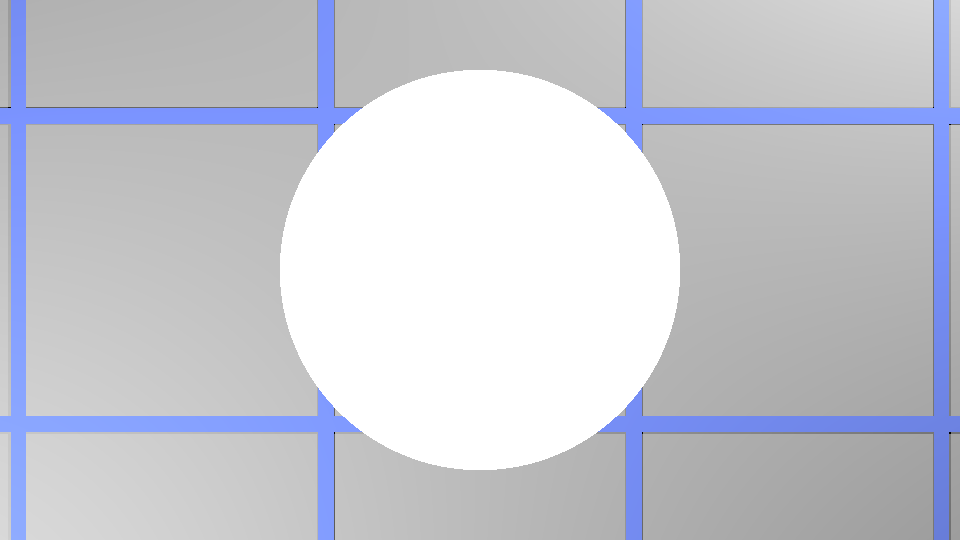
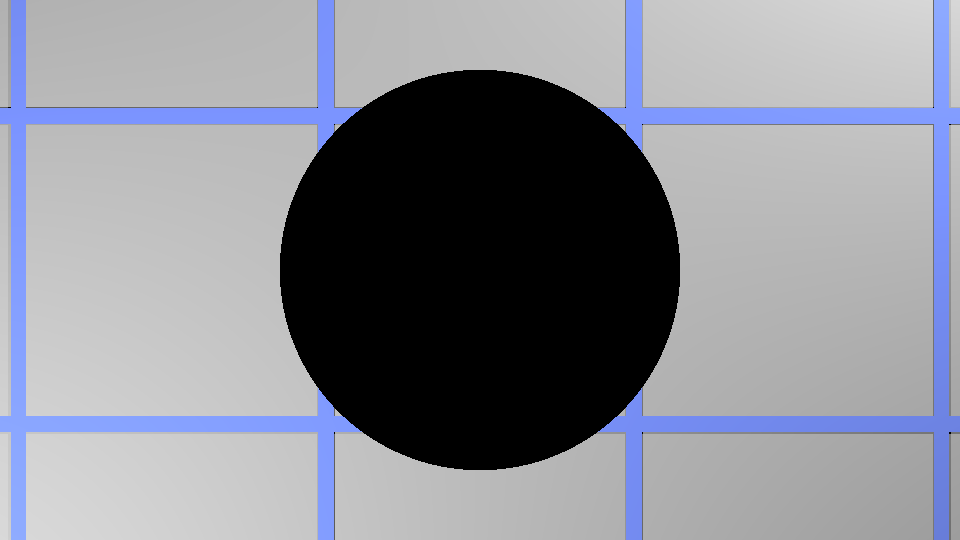
glass and glazed

Changed region(s): [[0.2812, 0.1185, 0.7188, 0.8889]]

diff --git a/CS4620/src/cs4620/ray2/shader/Glass.java b/CS4620/src/cs4620/ray2/shader/Glass.java
@@ -46,55 +46,43 @@ public class Glass extends Shader {
 	public void shade(Colord outIntensity, Scene scene, Ray ray, IntersectionRecord record, int depth) {
 
 
-		Vector3d incoming = new Vector3d();
 		Vector3d outgoing = new Vector3d();
 		outgoing.set(ray.origin).sub(record.location).normalize();
 
 		Colord color = new Colord();
-		Ray shadowRay = new Ray();
 		
 		outIntensity.setZero();
-		for(Light light : scene.getLights()) {
-			if(!isShadowed(scene, light, record, shadowRay)) {
-				incoming.set(light.getDirection(record.location)).normalize();
-				
-				double dotProd = record.normal.dot(incoming);
-				if (dotProd <= 0)
-					continue;
-				else {
-					
-					if (depth <= RayTracer.MAX_DEPTH) {
-						Vector3d normal = record.normal.clone();
-						
-						Ray reflection = new Ray(record.location.clone(), incoming.clone().sub(normal.clone().mul(2.0).mul(incoming.clone().dot(normal.clone()))));
-						
-						double fresnel = fresnel(normal, ray.direction, this.refractiveIndex);
-						
-						//shadeRay(record.surface.getShader().shade(color, scene, ray, record, depth+1);
-					//	System.out.println(record.surface.getShader());
-					//	System.out.println(record.surface);
-					//	System.out.println(color);
-					//	System.out.println(ray.origin + " " + ray.direction);
-					//	System.out.println(reflection.origin + " " + reflection.direction);
-						outIntensity.add(color.mul(1.0 - fresnel));
-						Colord reflectedColor = new Colord();
-						
-					//	System.out.println(fresnel);
-						//IntersectionRecord reflectRecord = new IntersectionRecord();
-						
-					//	boolean reflectHit = scene.getAnyIntersection(reflection);
-								
-						RayTracer.shadeRay(reflectedColor, scene, ray, depth+1);
-					//	outIntensity.add(reflectedColor);
-					//	System.out.println(outIntensity + " at depth " + depth);
-						
-					}
-					
-				}
+	
+		if (depth <= RayTracer.MAX_DEPTH) {
+			
+			Colord reflectedColor = new Colord();
+			
+//						IntersectionRecord reflectRecord = new IntersectionRecord();
+			Vector3d normal = record.normal.clone();
+			
+			Ray reflection = new Ray(record.location.clone(), ray.direction.clone().sub(normal.clone().mul(2.0).mul(ray.direction.clone().dot(normal.clone()))));
+			reflection.makeOffsetSegment(Double.POSITIVE_INFINITY);
+			double fresnel = fresnel(normal, ray.direction, this.refractiveIndex);
+			
+			//record.surface.getShader().shade(color, scene, ray, record, depth+1);
+			outIntensity.add(color.mul(1.0 - fresnel));
+//						Raytracer.shadeRay()
+			RayTracer.shadeRay(reflectedColor, scene, reflection, depth+1);
+			outIntensity.add(reflectedColor.mul(fresnel));
+//						boolean reflectHit = scene.getAnyIntersection(reflection);
+//						
+//						if (reflectHit) {
+//							scene.getFirstIntersection(reflectRecord, reflection);
+//							System.out.println("reflected");
+//							reflectRecord.surface.getShader().shade(reflectedColor, scene, reflection, reflectRecord, depth+1);
+//							outIntensity.add(reflectedColor.mul(fresnel));
+//						}
+//						else {
+//							System.out.println("No reflection");
+//						}
+			
 			}
 		}
-	
-		//outIntensity.set(new Colord(1,1,1));
-	}	
+
 
 }

diff --git a/CS4620/src/cs4620/ray2/shader/Glazed.java b/CS4620/src/cs4620/ray2/shader/Glazed.java
@@ -53,39 +53,31 @@ public class Glazed extends Shader {
 	public void shade(Colord outIntensity, Scene scene, Ray ray, IntersectionRecord record, int depth) {
 		// TODO#A7: fill in this function.
 		
-		Vector3d incoming = new Vector3d();
 		Vector3d outgoing = new Vector3d();
 		outgoing.set(ray.origin).sub(record.location).normalize();
 
 		Colord color = new Colord();
-		Ray shadowRay = new Ray();
 		
 		outIntensity.setZero();
-		for(Light light : scene.getLights()) {
-			if(!isShadowed(scene, light, record, shadowRay)) {
-				incoming.set(light.getDirection(record.location)).normalize();
-				
-				double dotProd = record.normal.dot(incoming);
-				if (dotProd <= 0)
-					continue;
-				else {
-					
-					if (depth <= RayTracer.MAX_DEPTH) {
-						
-						Colord reflectedColor = new Colord();
-						
+	
+		if (depth <= RayTracer.MAX_DEPTH) {
+			
+			Colord reflectedColor = new Colord();
+			
 //						IntersectionRecord reflectRecord = new IntersectionRecord();
-						Vector3d normal = record.normal.clone();
-						
-						Ray reflection = new Ray(record.location.clone(), incoming.clone().sub(normal.clone().mul(2.0).mul(incoming.clone().dot(normal.clone()))));
-						
-						double fresnel = fresnel(normal, ray.direction, this.refractiveIndex);
-						
-						substrate.shade(color, scene, ray, record, depth);
-						outIntensity.add(color.mul(1.0 - fresnel));
+			Vector3d normal = record.normal.clone();
+			
+			Ray reflection = new Ray(record.location.clone(), ray.direction.clone().sub(normal.clone().mul(2.0).mul(ray.direction.clone().dot(normal.clone()))));
+			reflection.start = Ray.EPSILON;
+			reflection.end = Double.POSITIVE_INFINITY;
+			//	reflection.makeOffsetSegment(Double.POSITIVE_INFINITY);
+			double fresnel = fresnel(normal, outgoing, this.refractiveIndex);
+			
+			substrate.shade(color, scene, ray, record, depth);
+			outIntensity.add(color.mul(1.0 - fresnel));
 //						Raytracer.shadeRay()
-						RayTracer.shadeRay(reflectedColor, scene, reflection, depth+1);
-						outIntensity.add(reflectedColor.mul(fresnel));
+			RayTracer.shadeRay(reflectedColor, scene, reflection, depth+1);
+			outIntensity.add(reflectedColor.mul(fresnel));
 //						boolean reflectHit = scene.getAnyIntersection(reflection);
 //						
 //						if (reflectHit) {
@@ -97,11 +89,7 @@ public class Glazed extends Shader {
 //						else {
 //							System.out.println("No reflection");
 //						}
-						
-					}
-					
-				}
-			}
+			
 		}
 	}
 }
